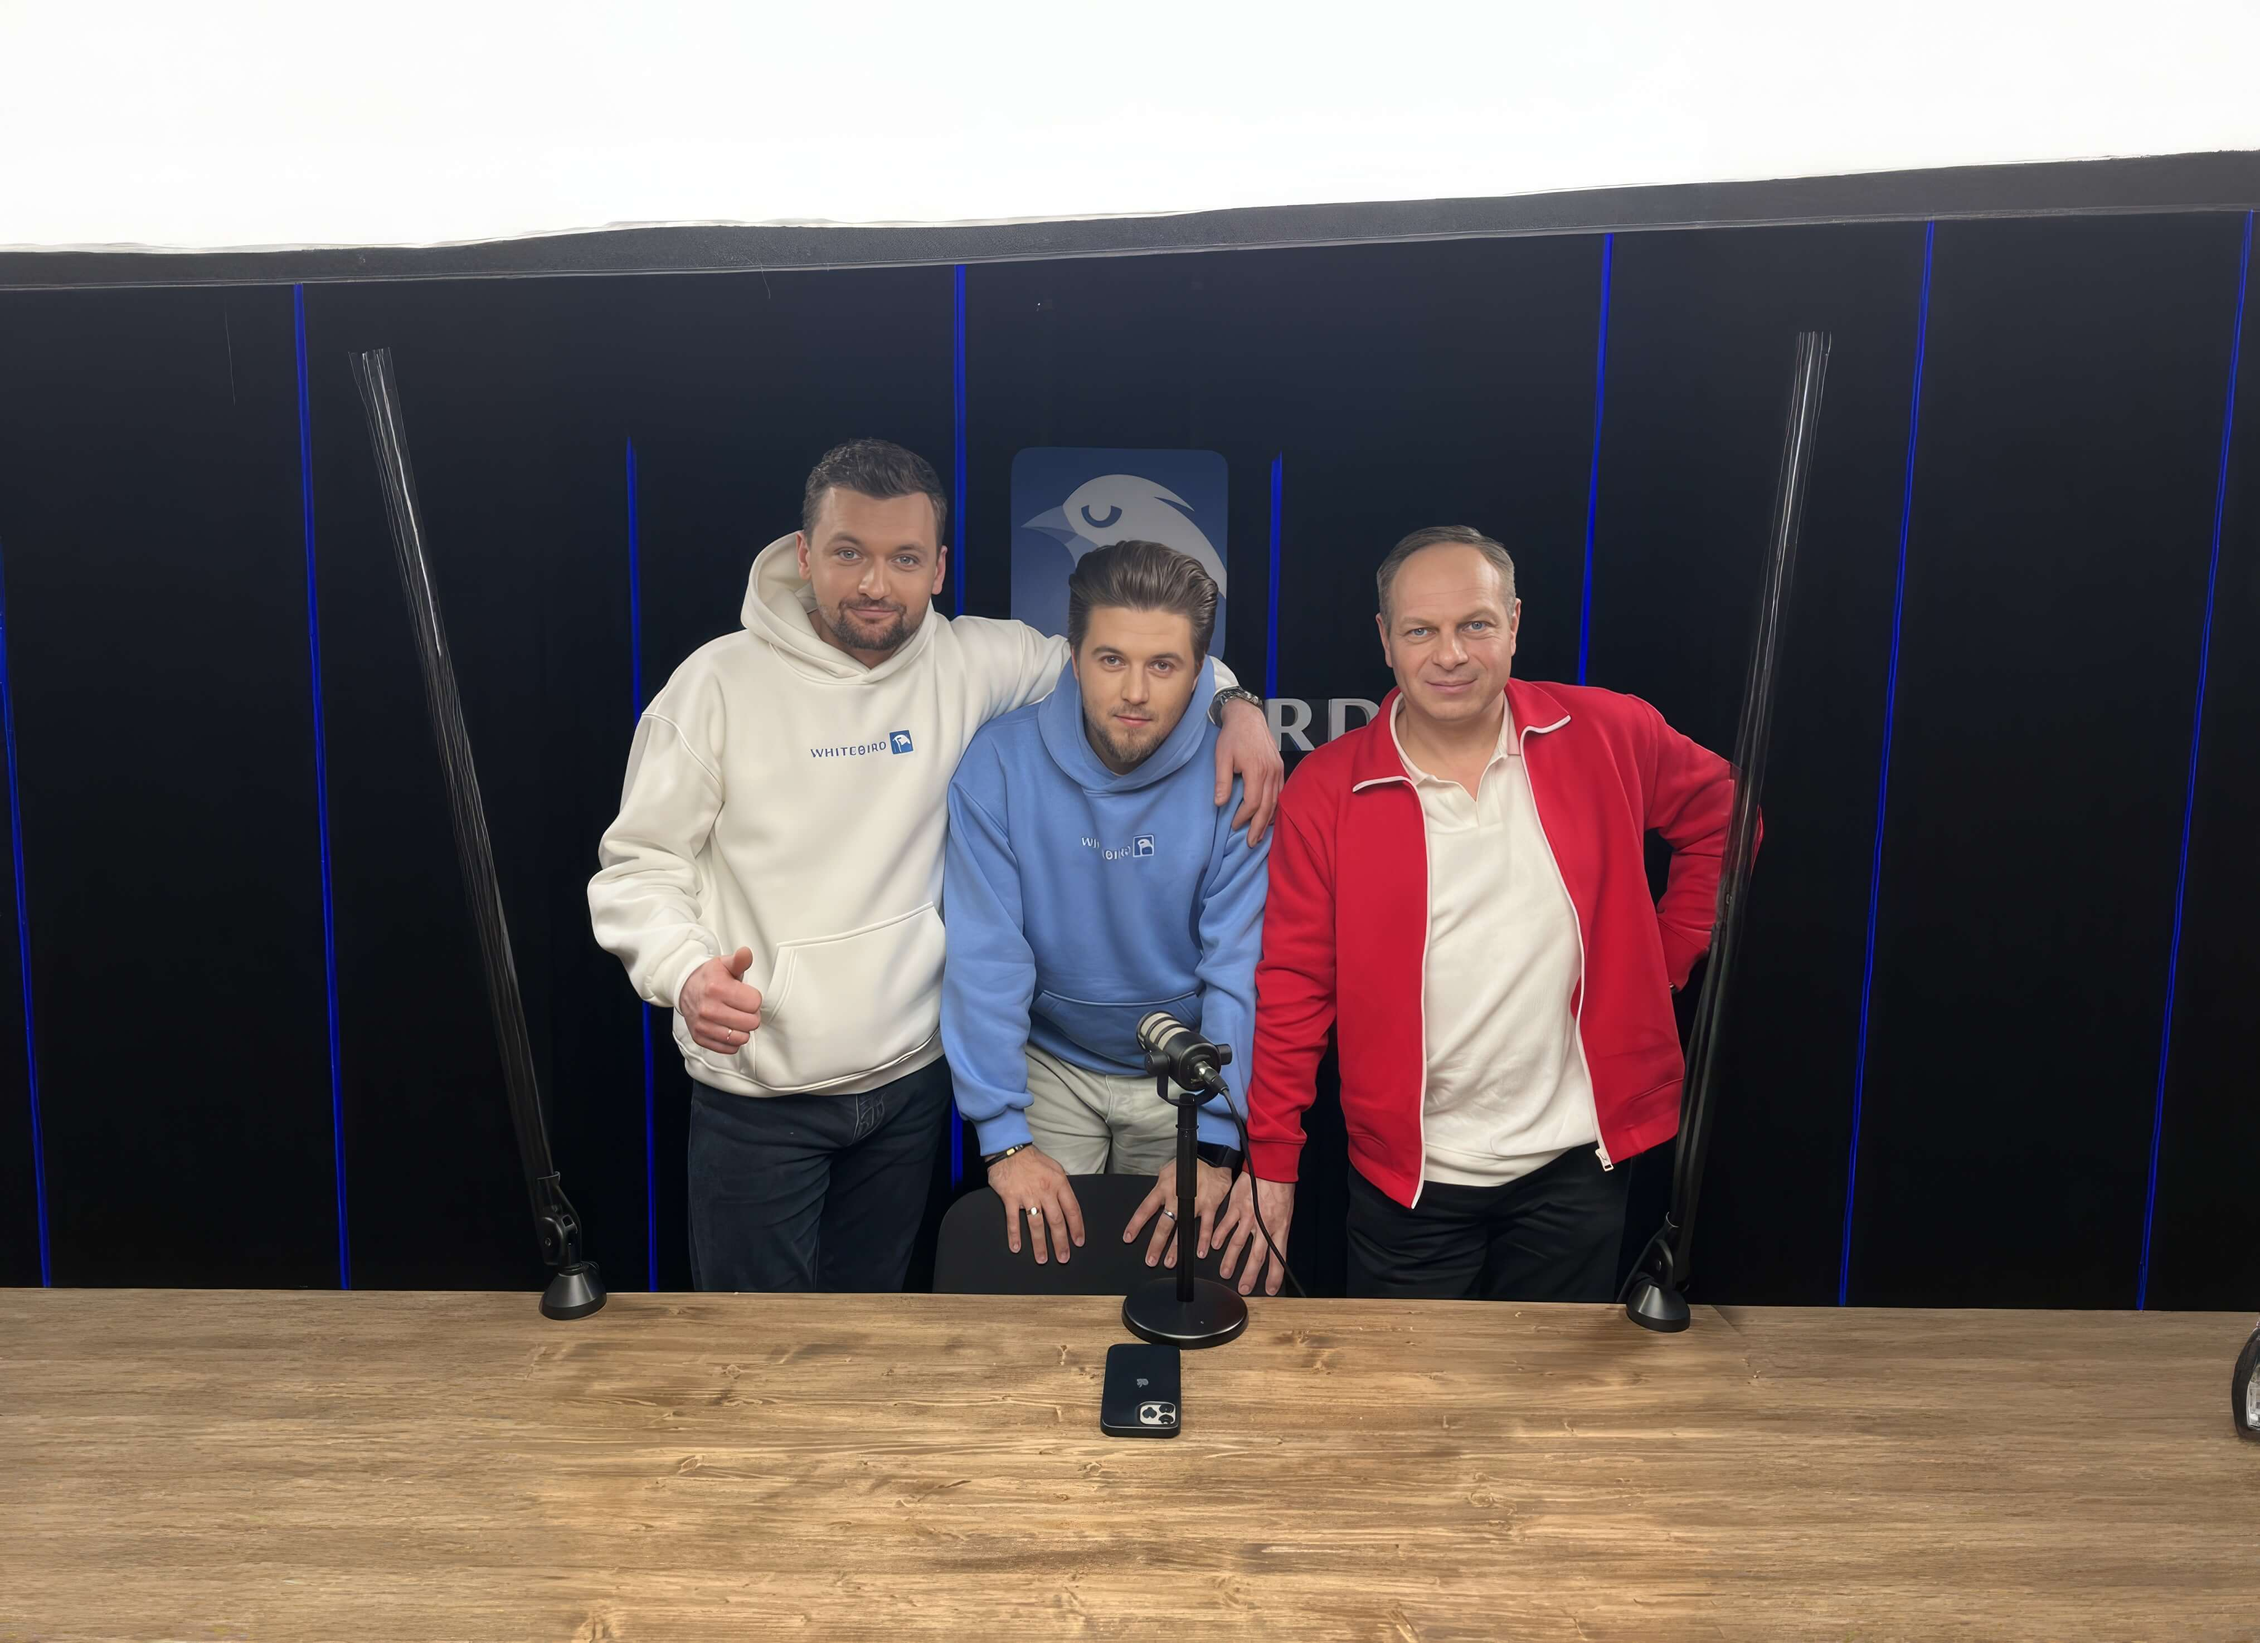
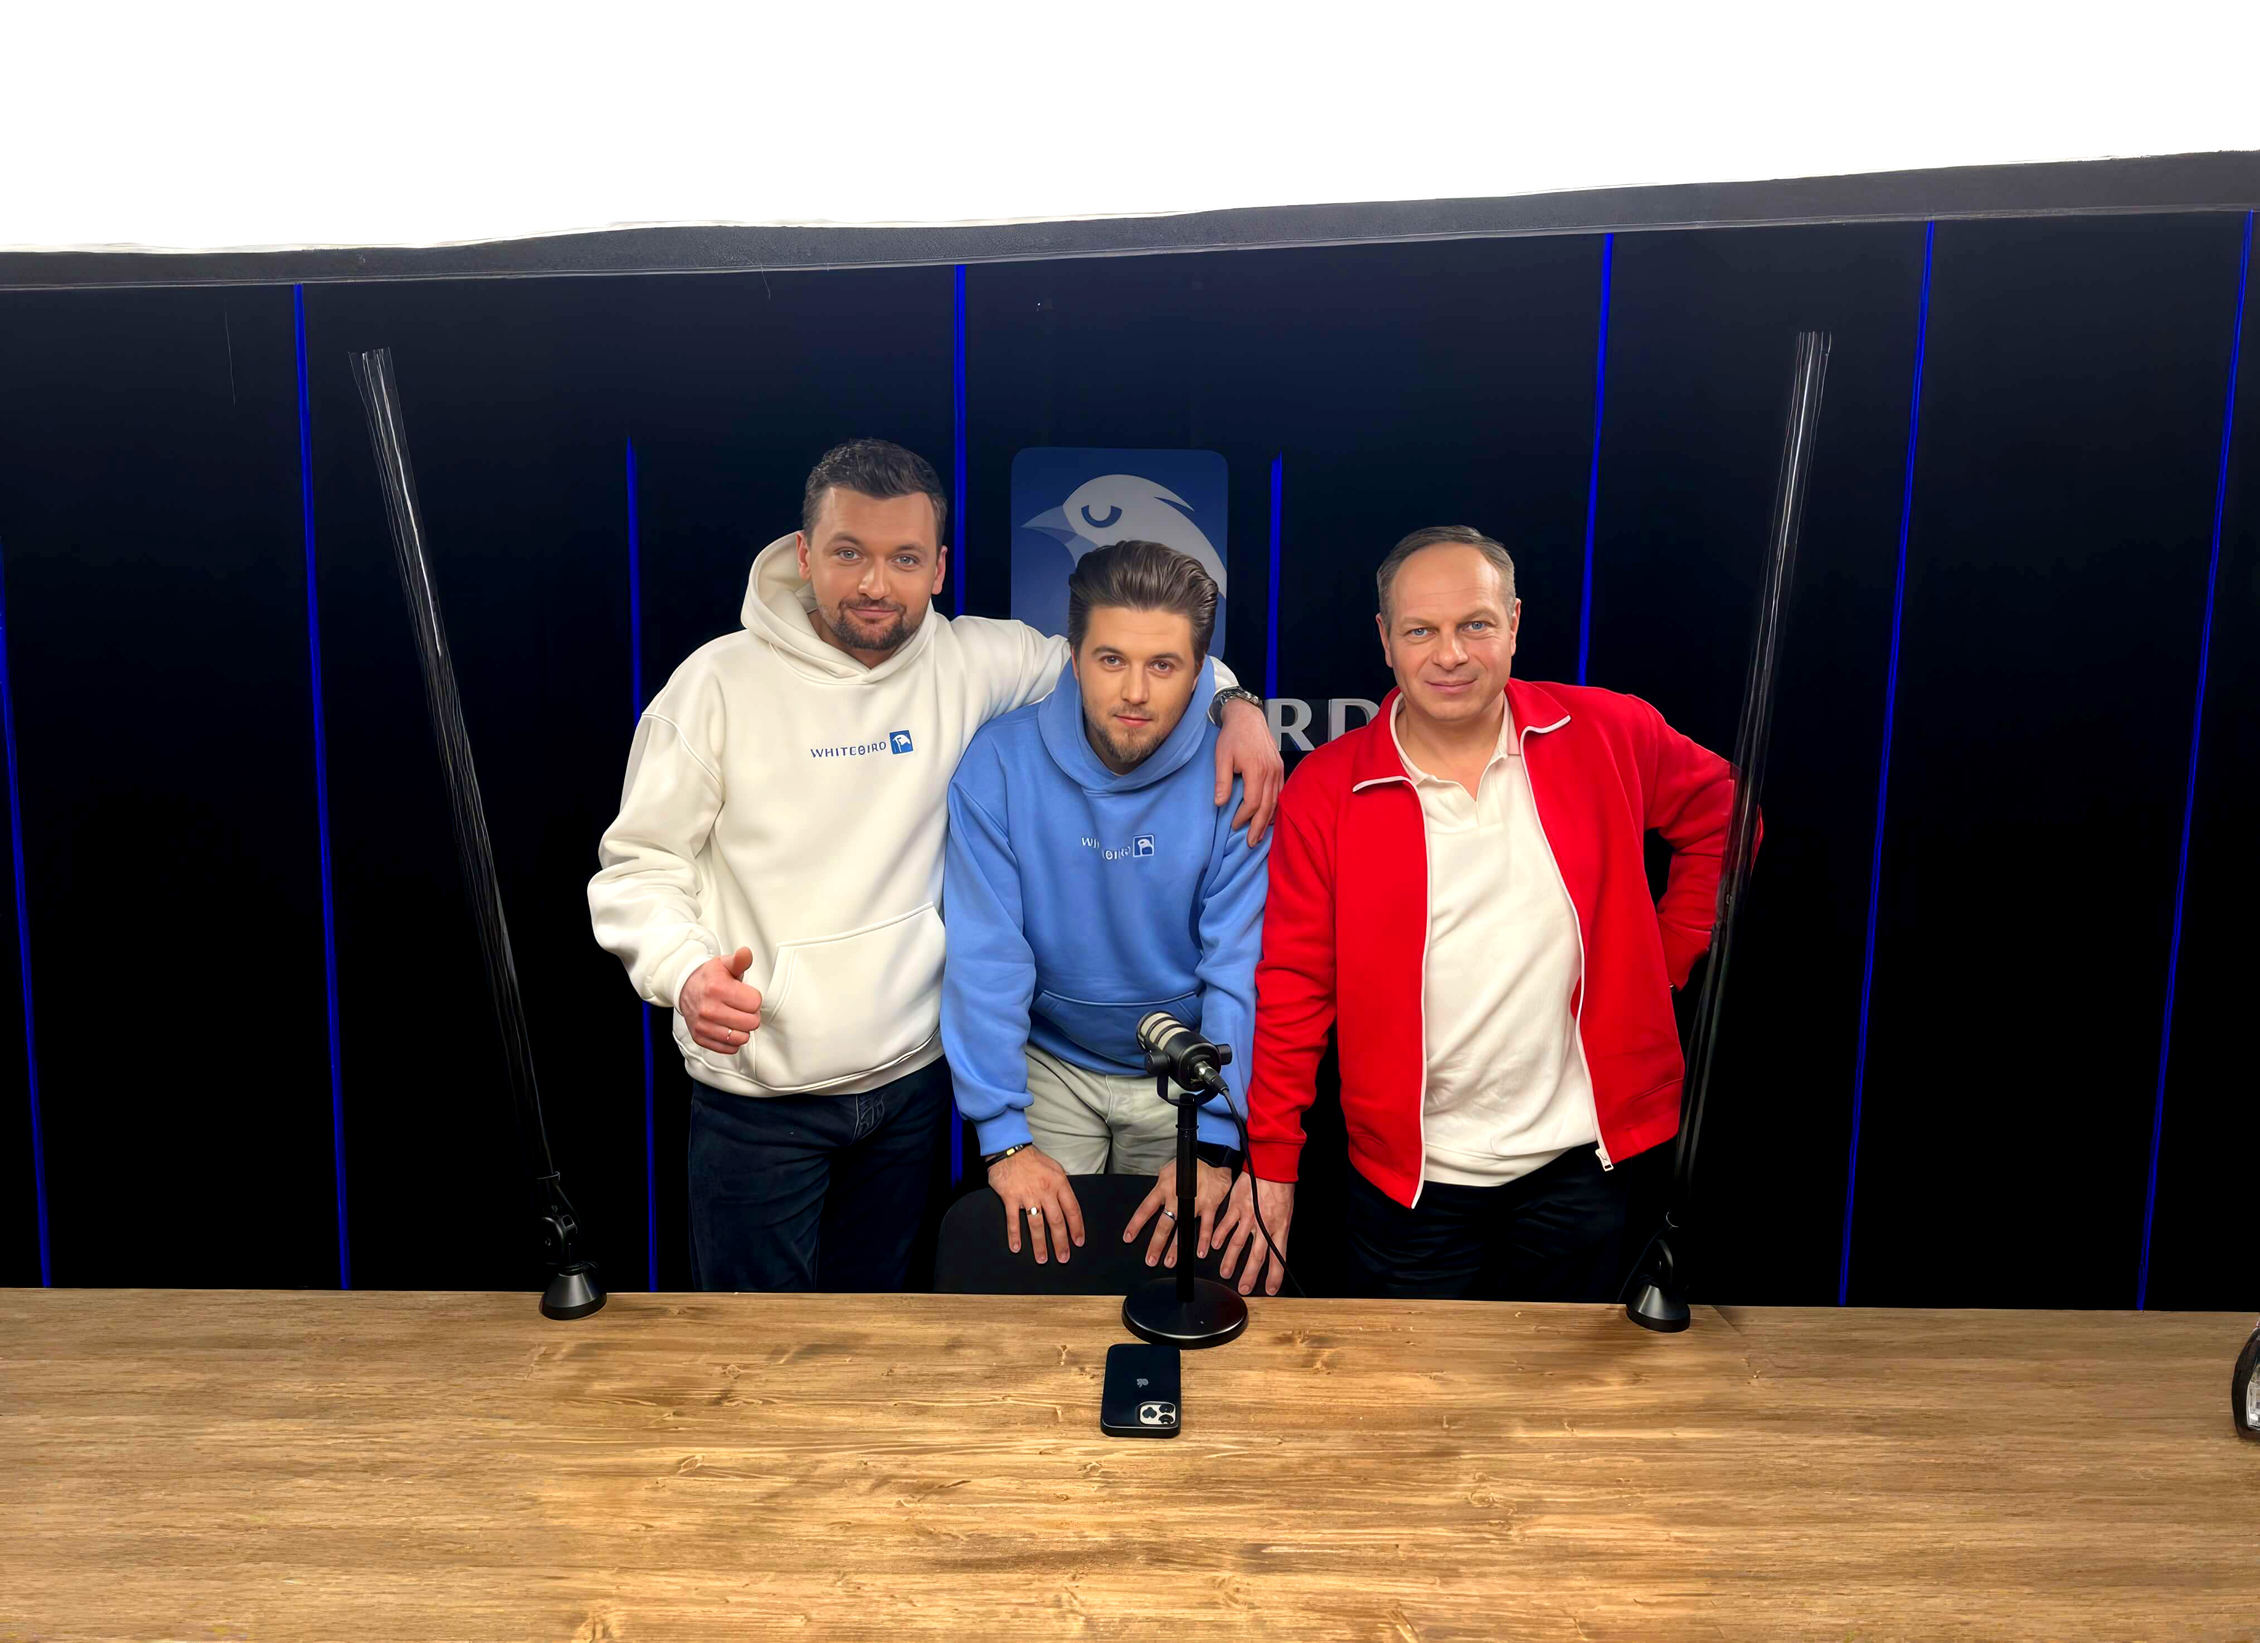
imgs

diff --git a/css/style.css b/css/style.css
@@ -263,6 +263,9 @@ p {
     text-align: center;
     color: var(--color-white);
 }
+.wb-hero_bg-icon-btc, .wb-hero_bg-icon-mic {
+    display: none;
+}
 .tooltip-container {
   position: absolute;
   z-index: 9999;
@@ -379,6 +382,7 @@ p {
     }
     .wb-hero_content-logo {
         max-width: 858px;
+        z-index: 1;
     }
     .wb-hero_content-title {
         font-size: 42px;
@@ -386,6 +390,21 @@ p {
     .wb-hero_content-subtitle {
         font-size: 24px;
         line-height: 28px;
+    }
+    .wb-hero_bg-icon-btc, .wb-hero_bg-icon-mic {
+        display: block;
+    }
+    .wb-hero_bg-icon-btc {
+        position: absolute;
+        top: -58px;
+        left: 50%;
+        transform: translateX(-312%) rotate(-68deg);
+    }
+    .wb-hero_bg-icon-mic {
+        position: absolute;
+        bottom: 0;
+        left: 0;
+        z-index: 1;
     }
     .tooltip-box {
         width: 264px;
@@ -771,6 +790,7 @@ p {
     border-radius: 16px;
     padding: 32px 24px 298px;
     background-color: #E4E9E5;
+    overflow: hidden;
 }
 .wb-more_content::before {
     content: "";

diff --git a/main_page.html b/main_page.html
@@ -64,9 +64,11 @@
                 <source srcset="img/hero_bg-icons-desk.svg" media="(min-width: 768px)" />
                 <img class="wb-hero_bg-icons" src="img/hero_bg-icons.svg" alt="Образовательный проект WhiteBird" />
             </picture>
+            <img src="img/hero_bg-icon-btc.svg" class="wb-hero_bg-icon-btc" alt="">
+            <img src="img/hero_bg-icon-mic.svg" class="wb-hero_bg-icon-mic" alt="">
             <div class="wb-hero_content">
                 <img 
-                    src="img/logo_crypto-info.svg" 
+                    src="img/logo_crypto-info.png" 
                     alt="Образовательный проект WhiteBird Crypto Info"
                     class="wb-hero_content-logo"
                 >
